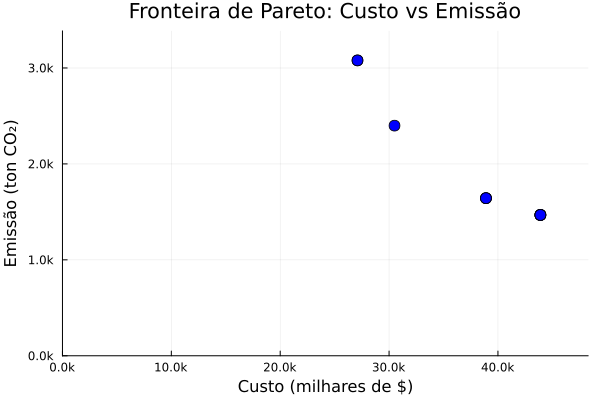
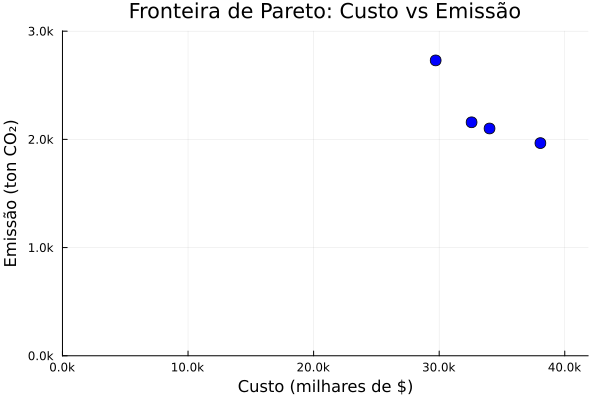
[MCDA] comparacao entre os metodos MCDA

diff --git a/SRC/decisao_multicriterio/main.py b/SRC/decisao_multicriterio/main.py
@@ -1,0 +1,74 @@
+import sys
+import os
+import subprocess
+
+sys.path.append(os.path.abspath(os.path.dirname(__file__)))
+sys.path.append(os.path.abspath(os.path.join(os.path.dirname(__file__), '..')))
+
+from decisao_multicriterio.familia_AHP import *
+from decisao_multicriterio.familia_LesteEuropeu import *
+
+
+
+def exporta_comparativo_excel():
+
+    # Caminho para o script Julia
+    script = "pareto_despacho_economico"    
+    script_julia = "SRC/modelos_matematicos/"+script+".jl"
+
+    if not os.path.exists(script_julia):
+        print(f"Arquivo Julia '{script_julia}' não encontrado.")
+        sys.exit(1)
+    else:
+        # Comando para executar
+        comando = ["julia", script_julia]
+        print(f"Executando '{script_julia}' via subprocesso...")
+
+        # Executa e captura a saída
+        try:
+            resultado = subprocess.run(comando, capture_output=True, text=True, check=True)
+            print("Execução concluída com sucesso:")
+            print(resultado.stdout)
+        except subprocess.CalledProcessError as e:
+            print("Erro durante a execução do script Julia:")
+            print(e.stderr)
+
+    # Instancia os métodos
+    ahp = AHP()
+    ahp_gauss = AHP_Gaussiano()
+    waspas = WASPAS()
+    lopcow = LOPCOW()
+    mpsi = MPSI()
+    #wisp = WISP()
+
+    # Gera os rankings
+    df_ahp = ahp.rank_alternativas().rename(columns={"Score": "AHP"})
+    df_ahp_gauss = ahp_gauss.rank_alternativas().rename(columns={"Score": "AHP_Gaussiano"})
+    df_waspas = waspas.rank_alternativas().rename(columns={"Score": "WASPAS"})
+    df_lopcow = lopcow.rank_alternativas().rename(columns={"Score": "LOPCOW"})
+    df_mpsi = mpsi.rank_alternativas().rename(columns={"Score": "MPSI"})
+    #df_wisp = wisp.rank_alternativas().rename(columns={"Score": "WISP"})
+
+    # Seleciona colunas-chave
+    base_cols = ["id_alternativa", "descricao"]
+
+    # Faz merge sucessivo
+    df_merged = df_ahp[base_cols + ["AHP"]] \
+        .merge(df_ahp_gauss[base_cols + ["AHP_Gaussiano"]], on=base_cols, how="outer") \
+        .merge(df_waspas[base_cols + ["WASPAS"]], on=base_cols, how="outer") \
+        .merge(df_lopcow[base_cols + ["LOPCOW"]], on=base_cols, how="outer") \
+        .merge(df_mpsi[base_cols + ["MPSI"]], on=base_cols, how="outer") \
+       # .merge(df_wisp[base_cols + ["WISP"]], on=base_cols, how="outer")
+
+    # Ordena por uma média dos scores (opcional)
+    df_merged = df_merged.fillna(0)
+    df_merged["Score_Medio"] = df_merged[["AHP", "AHP_Gaussiano", "WASPAS", "LOPCOW", "MPSI"]].mean(axis=1) # ,"WISP",].mean(axis=1)
+    df_merged = df_merged.sort_values(by="Score_Medio", ascending=False).reset_index(drop=True)
+
+    print('-'*80)
+    # Exporta para Excel
+    df_merged.to_excel("DATA/output/MCDA/ranking_comparativo_metodos.xlsx", index=False)
+    print(df_merged)
+
+if __name__ == '__main__':
+    exporta_comparativo_excel()

diff --git a/SRC/decisao_multicriterio/familia_LesteEuropeu.py b/SRC/decisao_multicriterio/familia_LesteEuropeu.py
@@ -73,6 +73,10 @@ class WASPAS:
         # Normaliza os scores
         df_unico["Score"] = df_unico["Score"] / df_unico["Score"].sum()
 
+        # Exibe o resultado
+        print("\nRanking das Alternativas: - WASPAS")
+        print(df_unico)
+
         return df_unico
 
 class LOPCOW(WASPAS):
@@ -117,6 +121,9 @@ class LOPCOW(WASPAS):
         # Elimina duplicatas com base nos critérios + Score
         df_unico = df_resultados.drop_duplicates(subset=colunas_criterios + ["Score"], keep="first").reset_index(drop=True)
         df_unico["Score"] = df_unico["Score"] / df_unico["Score"].sum()
+        
+        print("\nRanking das Alternativas: - LOPCOW")
+        print(df_unico)
 
         return df_unico
 
@@ -149,6 +156,9 @@ class MPSI(WASPAS):
         df_unico = df_resultados.drop_duplicates(subset=colunas_criterios + ["Score"], keep="first").reset_index(drop=True)
         # Normaliza os scores
         df_unico["Score"] = df_unico["Score"] / df_unico["Score"].sum()
+        
+        print('\nRanking das Alternativas: - MPSI')
+        print(df_unico)
 
         return df_unico
 
@@ -188,27 +198,16 @@ class WISP(WASPAS):
         print(pesos)
         df_unico = df_resultados.drop_duplicates(subset=colunas_criterios + ["Score"], keep="first").reset_index(drop=True)
         df_unico["Score"] = df_unico["Score"] / df_unico["Score"].sum()
+        
+        # Exibe os resultados
+        print('\nRanking das Alternativas: - WISP')
+        print(df_unico)
+    
         return df_unico
 
 
 if __name__ == "__main__":
-    waspas = WASPAS()
-    ranking_waspas = waspas.rank_alternativas()
-    print("\nRanking das Alternativas: - WASPAS")
-    print(ranking_waspas)
-
-    lopcow = LOPCOW()
-    ranking_lopcow = lopcow.rank_alternativas()
-    print("\nRanking das Alternativas: - LOPCOW")
-    print(ranking_lopcow)
-
-    mpsi = MPSI()
-    ranking_mpsi = mpsi.rank_alternativas()
-    print('\nRanking das Alternativas: - MPSI')
-    print(ranking_mpsi)
-
-    wisp = WISP()
-    ranking_wisp = wisp.rank_alternativas()
-    print('\nRanking das Alternativas: - WISP')
-    print(ranking_wisp)
-    
+    waspas = WASPAS().rank_alternativas()
+    lopcow = LOPCOW().rank_alternativas()
+    mpsi = MPSI().rank_alternativas()
+    wisp = WISP().rank_alternativas()

diff --git a/SRC/decisao_multicriterio/familia_AHP.py b/SRC/decisao_multicriterio/familia_AHP.py
@@ -58,7 +58,11 @@ class AHP:
         # elimina duplicados com base apenas nos critérios
         df_unico = df_resultados.drop_duplicates(subset=colunas_criterios, keep="first").reset_index(drop=True)
         df_unico["Score"] = df_unico["Score"]/sum(df_unico["Score"])
-        return df_unico
+        
+        ranking_ahp = df_unico
+        print("\nRanking das Alternativas: - AHP")
+        print(ranking_ahp)
+        return ranking_ahp
 
 class AHP_Gaussiano(AHP):
 
@@ -95,21 +99,17 @@ class AHP_Gaussiano(AHP):
         df = df.drop_duplicates(subset=criterios + ["Score"], keep="first").reset_index(drop=True)
                 # Normaliza Score
         df["Score"] = df["Score"]/sum(df["Score"])
-        print('\n')
+
         print('-'*80)
         print("Pesos dos critérios (AHP-Gaussiano):")
         print(w_norm)
+        ranking_ahp_g = df
+        print("\nRanking das Alternativas: - AHP Gaussiano")
+        print(ranking_ahp_g)
 
         return df
 
 
 if __name__ == "__main__":
-    ahp = AHP()
-    ranking_ahp = ahp.rank_alternativas()
-    print("\nRanking das Alternativas: - AHP")
-    print(ranking_ahp)
-
-    ahp_gaussiano = AHP_Gaussiano()
-    ranking_ahp_g = ahp_gaussiano.rank_alternativas()
-    print("\nRanking das Alternativas: - AHP Gaussiano")
-    print(ranking_ahp_g)
+    ahp = AHP().rank_alternativas()
+    ahp_gaussiano = AHP_Gaussiano().rank_alternativas()
